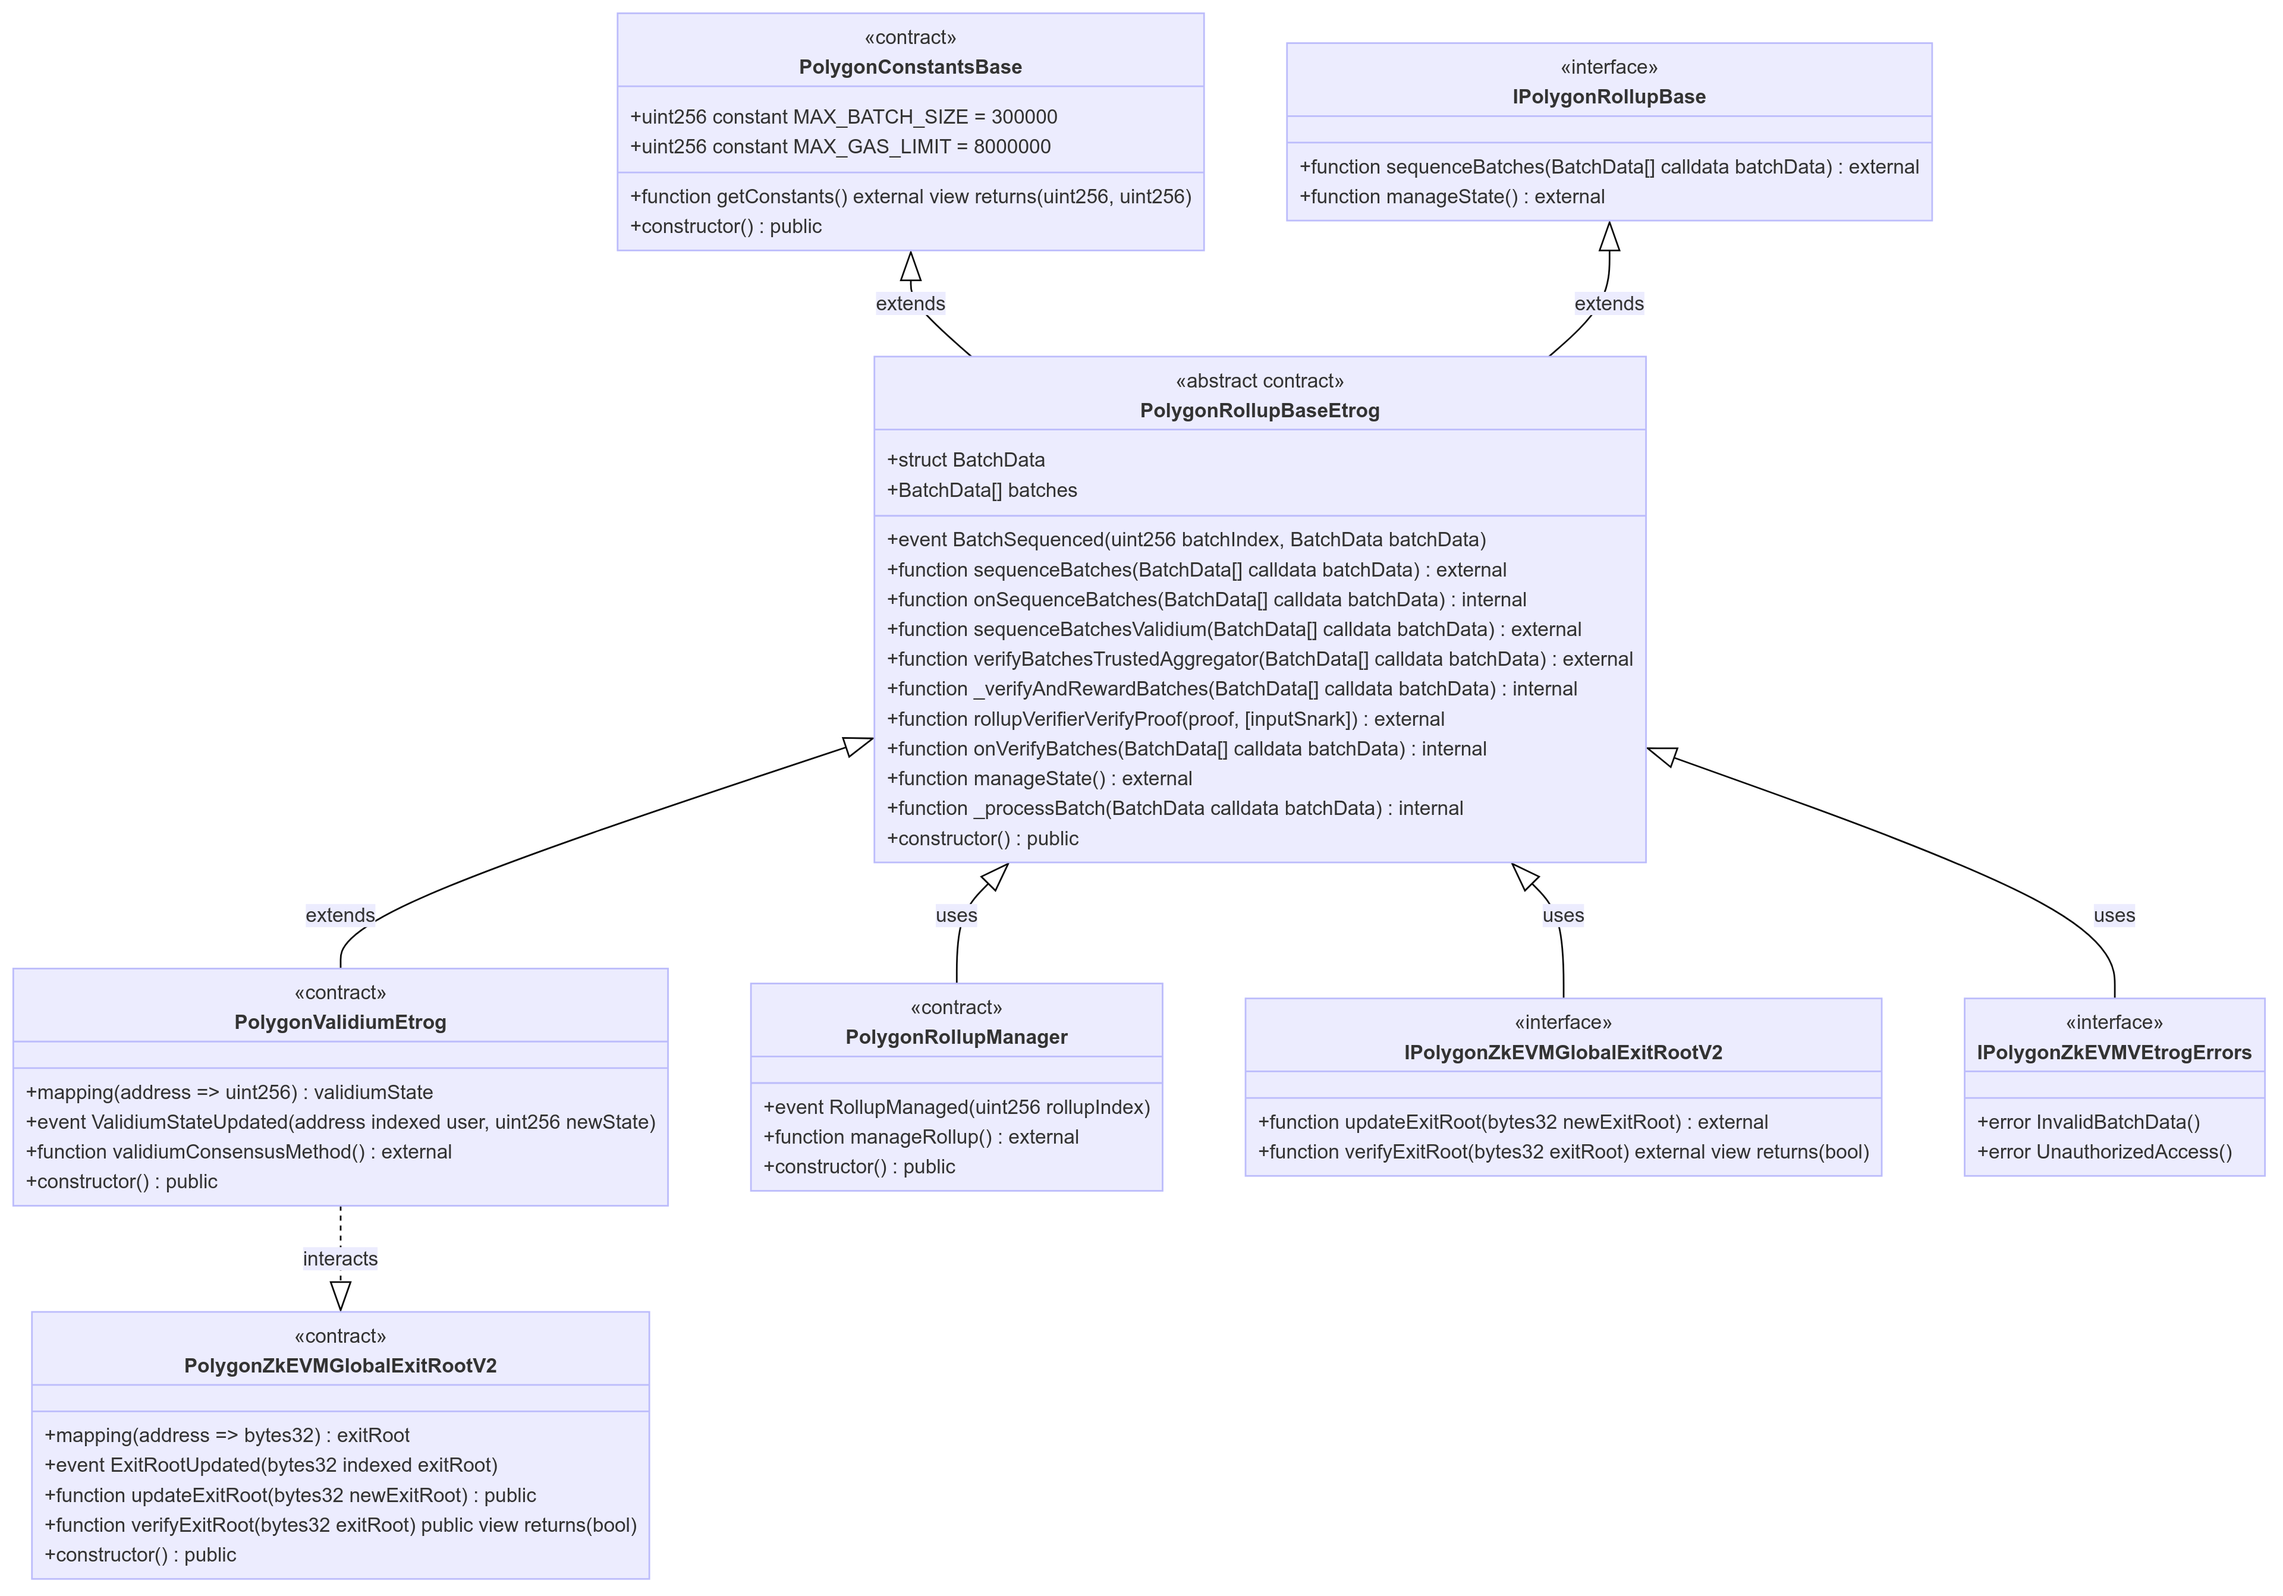
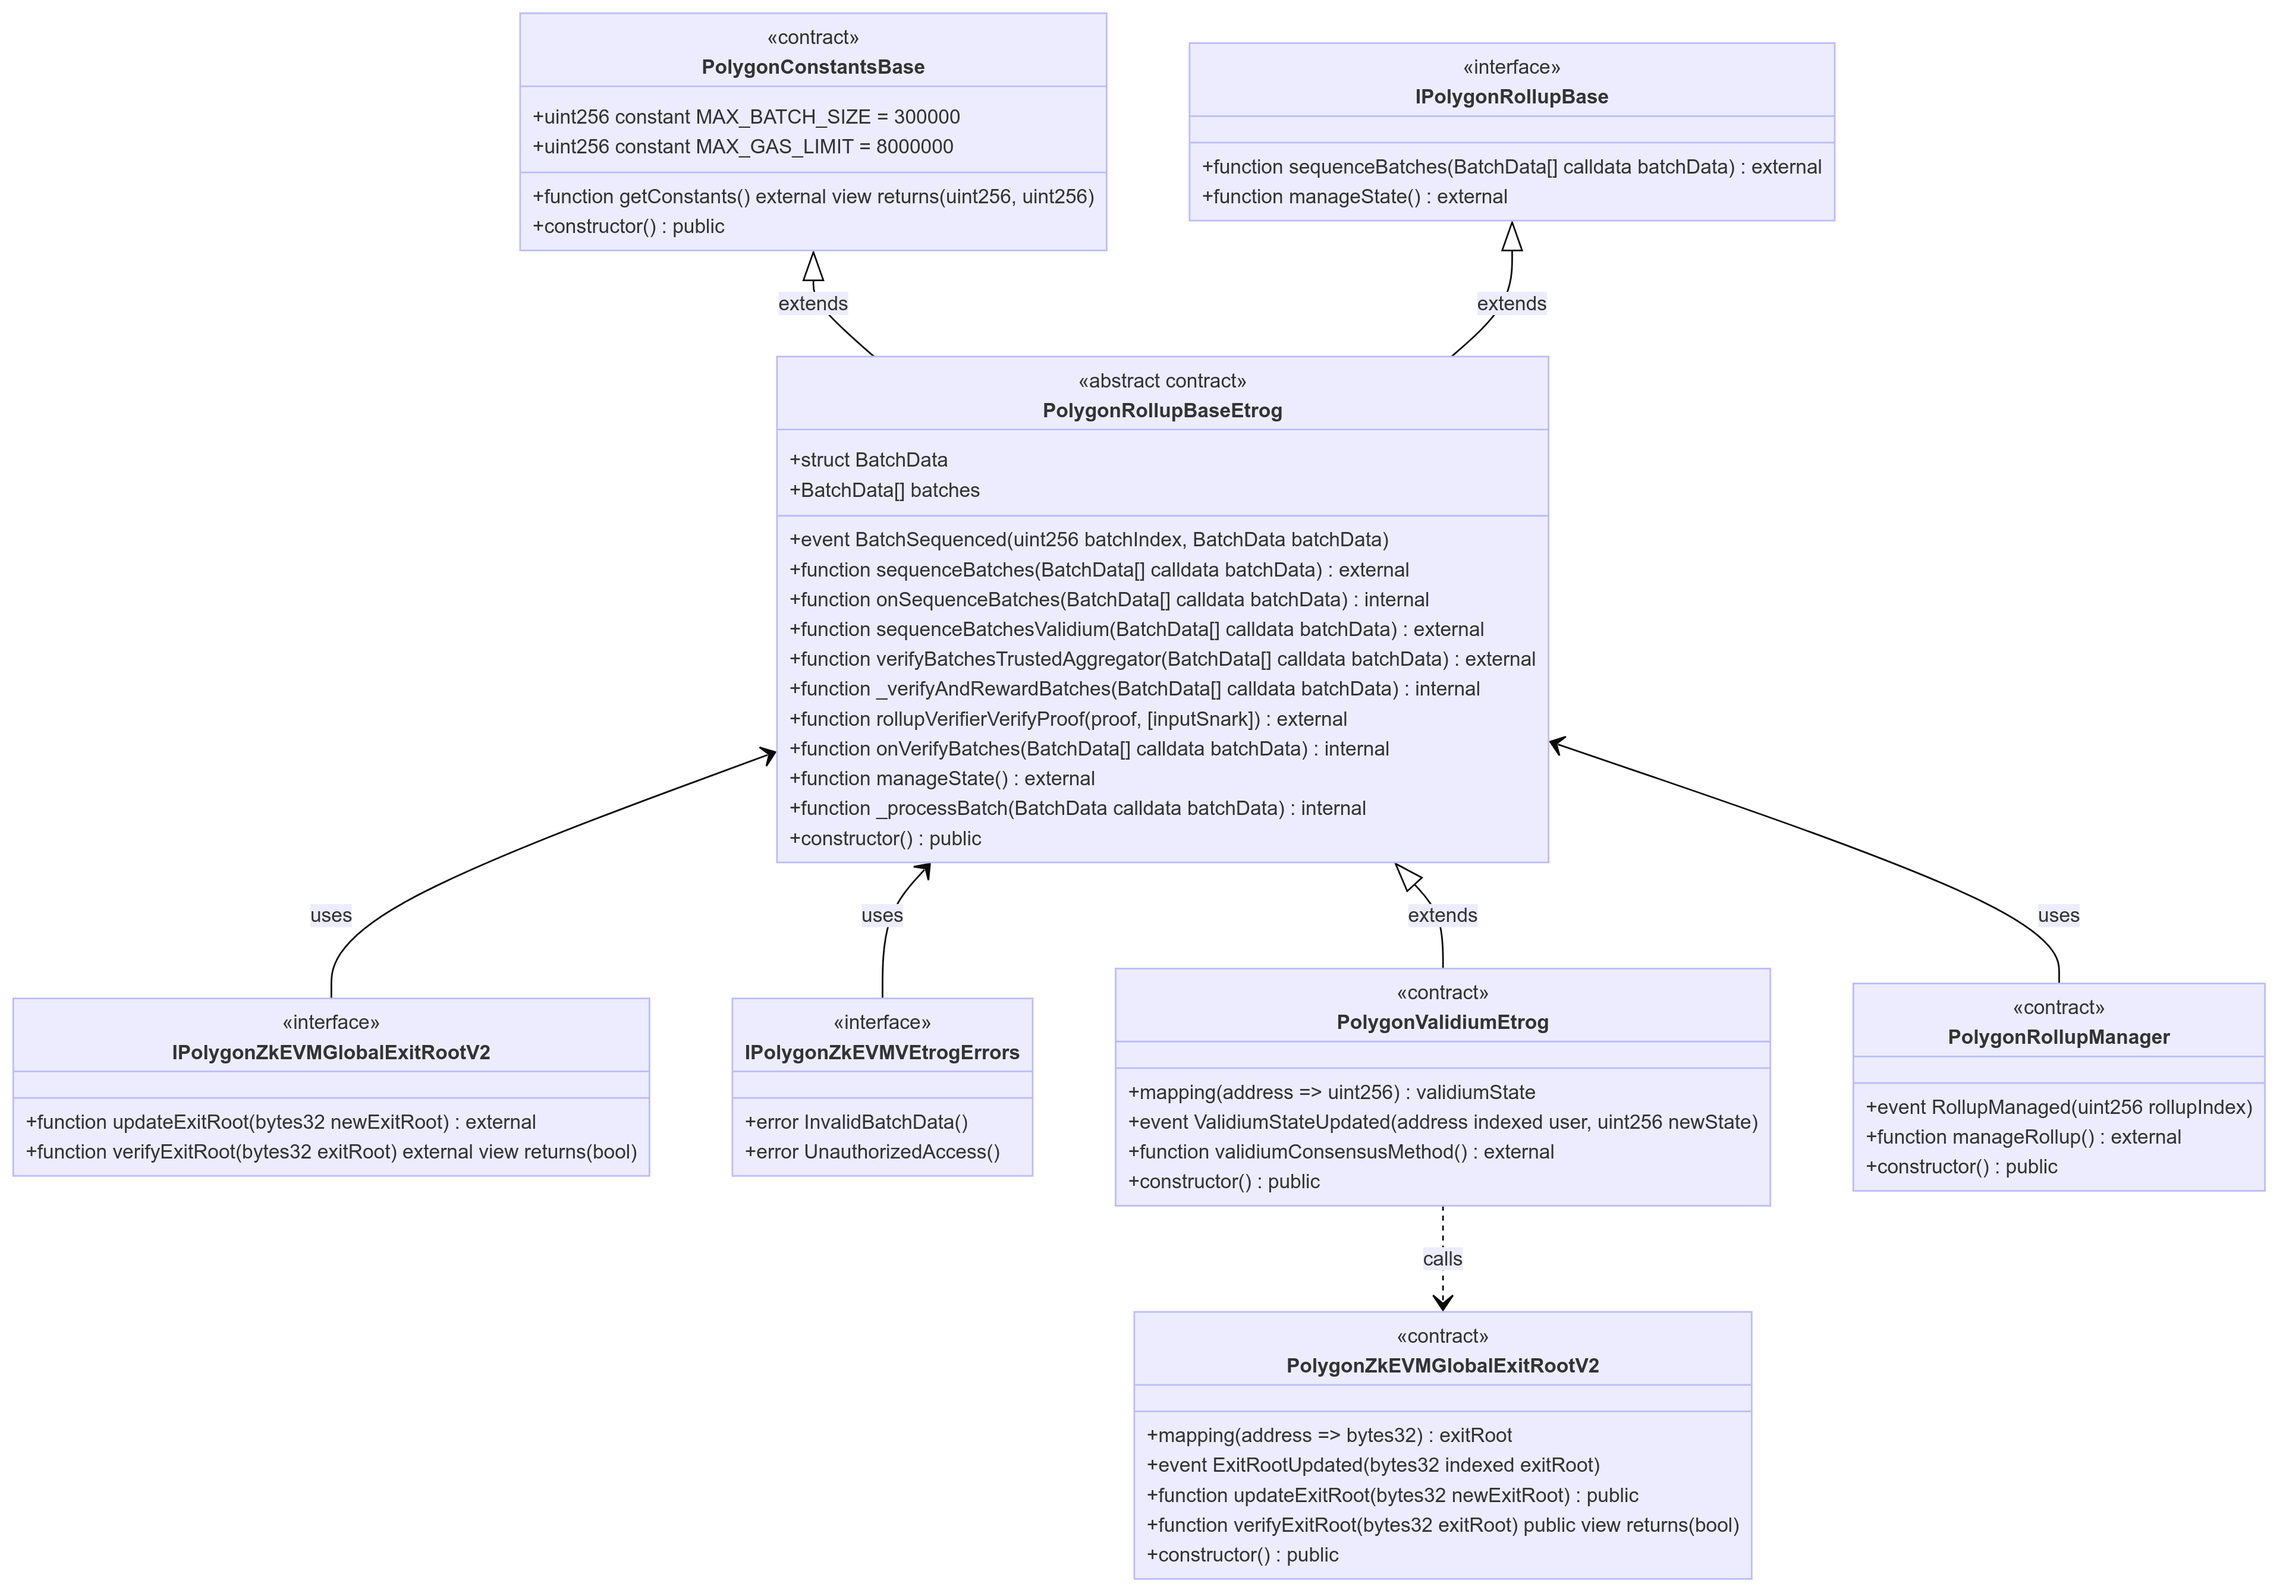
updating some diagrams

diff --git a/docs/zkEVM/architecture/high-level/smart-contracts/overview.md b/docs/zkEVM/architecture/high-level/smart-contracts/overview.md
@@ -2,10 +2,6 @@
 comments: true
 ---
 
-The skeleton-class diagram below reveals the smart contract architecture of rollup and CDK stacks.
-
-![Polygon Solidity smart contract architecture full view](../../../../img/cdk/high-level-architecture/overview-class-diagram.png)
-
 ## Polygon smart contract architecture
 
 Chain stacks at the node level direct transaction data to the L2 and L1 networks via smart contract calls. The system stores state in binary tree structures containing verifiable local and global exit roots.
@@ -13,10 +9,6 @@ Chain stacks at the node level direct transaction data to the L2 and L1 networks
 The diagram below details the Polygon Solidity smart contract architecture minus the bridging contracts. 
 
 ![Polygon Solidity smart contract architecture](../../../../img/cdk/high-level-architecture/smart-contracts-full-view.png)
-
-And here is the class diagram for the unified bridge and exit roots activity.
-
-![Polygon Solidity smart contract bridging architecture](../../../../img/cdk/high-level-architecture/bridging-class-diagram.png)
 
 There are four key contract types built into the system design: 
 
@@ -45,6 +37,10 @@ The [PolygonRollupManager.sol](https://github.com/0xPolygonHermez/zkevm-contract
 
 ## Bridge 
 
+The class diagram below describes the unified bridge interactions.
+
+![Polygon Solidity smart contract bridging architecture](../../../../img/cdk/high-level-architecture/bridging-class-diagram.png)
+
 The unified bridge contract [PolygonZkEVMBridgeV2.sol](https://github.com/0xPolygonHermez/zkevm-contracts/blob/main/contracts/v2/PolygonZkEVMBridgeV2.sol) is responsible for bridging and claiming activity across L1 and L2 chains. 
 
 <center>
@@ -54,6 +50,10 @@ The unified bridge contract [PolygonZkEVMBridgeV2.sol](https://github.com/0xPoly
 In the L1 network, the bridge also manages the complex exit root mechanism governing system state. In the L2 network, there is a lighter exit root mechanism that governs state at this layer. 
 
 ## Global exit roots
+
+The class diagram below describes the exit root interactions.
+
+![Polygon Solidity smart contract bridging architecture](../../../../img/cdk/high-level-architecture/exit-root-class-diagram.png)
 
 System state as a whole is stored on binary trees with data and/or exit roots written into their leaves. 
 

diff --git a/docs/zkEVM/architecture/high-level/smart-contracts/exit-roots.md b/docs/zkEVM/architecture/high-level/smart-contracts/exit-roots.md
@@ -1,4 +1,6 @@
-![Polygon Solidity smart contract bridging architecture](../../../../img/cdk/high-level-architecture/bridging-class-diagram.png)
+The class diagram below describes how the exit root contracts communicate with the bridge and the rollup manager.
+
+![Polygon Solidity smart contract bridging architecture](../../../../img/cdk/high-level-architecture/exit-root-class-diagram.png)
 
 An exit tree is a binary, append-only, sparse Merkle tree (SMT) whose leaf nodes store bridging data. The exit trees have a depth of 32.
 
